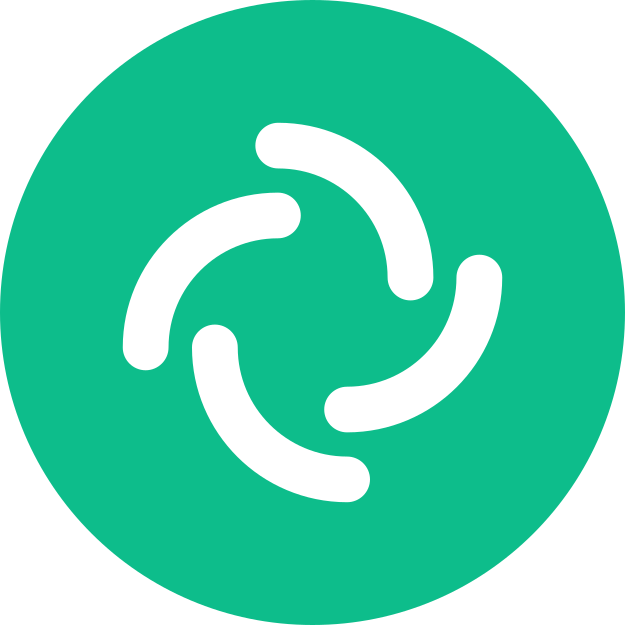
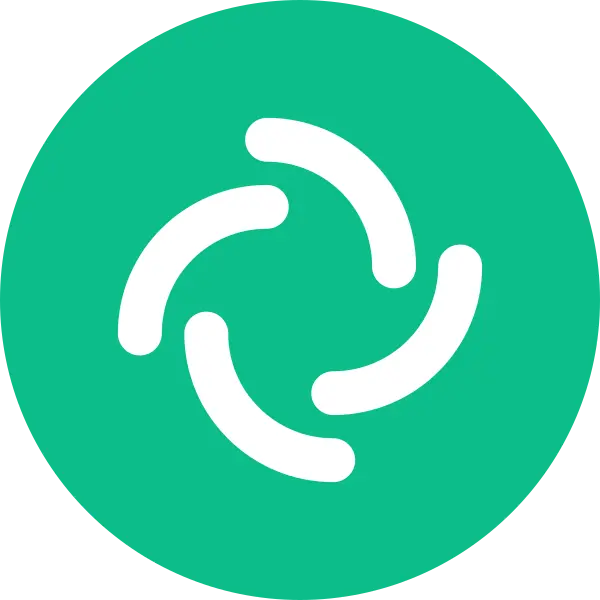
Resize Images -> more responsive

diff --git a/src/components/Main.vue b/src/components/Main.vue
@@ -4,8 +4,8 @@
       <div class="relative flex flex-wrap">
         <div class="justify-end my-3 px-3 w-1/4 overflow-hidden">
           <div class="overflow-hidden hover:scale-105 transition duration-500 cursor-pointer">
-            <div class="h-32 w-full flex justify-center">
-              <img class="h-full w-3/4" src="/images/app/google_doc.webp" alt="Google Doc">
+            <div class="h-full w-full items-center justify-center flex justify-center">
+              <img class="h-3/4 w-3/4" src="/images/app/google_doc.webp" alt="Google Doc">
             </div>
             <div class="p-2">
               <button class="font-semibold items-center justify-center w-full text-white">Google Doc</button>
@@ -15,8 +15,8 @@
 
         <div class="my-3 px-3 w-1/4 overflow-hidden">
           <div class="overflow-hidden hover:scale-105 transition duration-500 cursor-pointer">
-            <div class="h-32 w-full flex justify-center">
-              <img class="h-full w-full" src="/images/app/element.webp" alt="Element">
+            <div class="h-full w-full items-center justify-center flex justify-center">
+              <img class="h-3/4 w-3/4" src="/images/app/element.webp" alt="Element">
             </div>
             <div class="p-2">
                 <button class="font-semibold items-center justify-end w-full text-white">Element</button>
@@ -25,7 +25,14 @@
         </div>
 
         <div class="my-3 px-3 w-1/4 overflow-hidden">
-          <!-- Column Content -->
+          <div class="overflow-hidden hover:scale-105 transition duration-500 cursor-pointer">
+            <div class="h-full w-full items-center justify-center flex justify-center">
+              <img class="h-3/4 w-3/4" src="/images/app/libreOffice.webp" alt="Libre Office">
+            </div>
+            <div class="p-2">
+              <button class="font-semibold items-center justify-end w-full text-white">Libre Office</button>
+            </div>
+          </div>
         </div>
 
         <div class="my-3 px-3 w-1/4 overflow-hidden">
